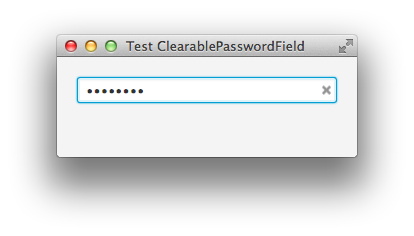
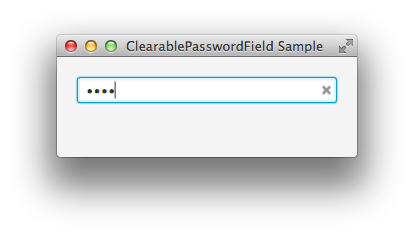
update screenshots

Changed region(s): [[0.2899, 0.1483, 0.7826, 0.2373], [0.2609, 0.3559, 0.3478, 0.4153]]

diff --git a/src/test/java/com/github/haixing_hu/javafx/control/textfield/CustomTextFieldTest.java b/src/test/java/com/github/haixing_hu/javafx/control/textfield/CustomTextFieldTest.java
@@ -118,7 +118,7 @@ public class CustomTextFieldTest extends Application {
   @Override
   public void start(Stage primaryStage) throws Exception {
     final Pane root = createPane(primaryStage);
-    primaryStage.setTitle("Test CustomTextField and CustomPasswordField");
+    primaryStage.setTitle("CustomTextField and CustomPasswordField Samples");
     primaryStage.setScene(new Scene(root, 700, 400));
     primaryStage.show();
   }

diff --git a/src/test/java/com/github/haixing_hu/javafx/control/textfield/ClearablePasswordFieldTest.java b/src/test/java/com/github/haixing_hu/javafx/control/textfield/ClearablePasswordFieldTest.java
@@ -41,7 +41,7 @@ public class ClearablePasswordFieldTest extends Application {
     root.setPadding(new Insets(20));
     final ClearablePasswordField field = new ClearablePasswordField();
     root.getChildren().add(field);
-    primaryStage.setTitle("Test ClearablePasswordField");
+    primaryStage.setTitle("ClearablePasswordField Sample");
     primaryStage.setScene(new Scene(root, 300, 100));
     primaryStage.show();
   }

diff --git a/src/test/java/com/github/haixing_hu/javafx/control/textfield/ClearableTextFieldTest.java b/src/test/java/com/github/haixing_hu/javafx/control/textfield/ClearableTextFieldTest.java
@@ -41,7 +41,7 @@ public class ClearableTextFieldTest extends Application {
     root.setPadding(new Insets(20));
     final ClearableTextField field = new ClearableTextField();
     root.getChildren().add(field);
-    primaryStage.setTitle("Test ClearableTextField");
+    primaryStage.setTitle("ClearableTextField Sample");
     primaryStage.setScene(new Scene(root, 300, 100));
     primaryStage.show();
   }

diff --git a/README.md b/README.md
@@ -91,7 +91,6 @@ These simple widgets are rendered as horizontal or verital spaces.
 ![VerticalSpace Screenshot](https://raw.githubusercontent.com/Haixing-Hu/javafx-widgets/master/screenshots/VerticalSpace.png)
 
 
-
 ### Others
 
 More widgets will be added when I need them :-)
